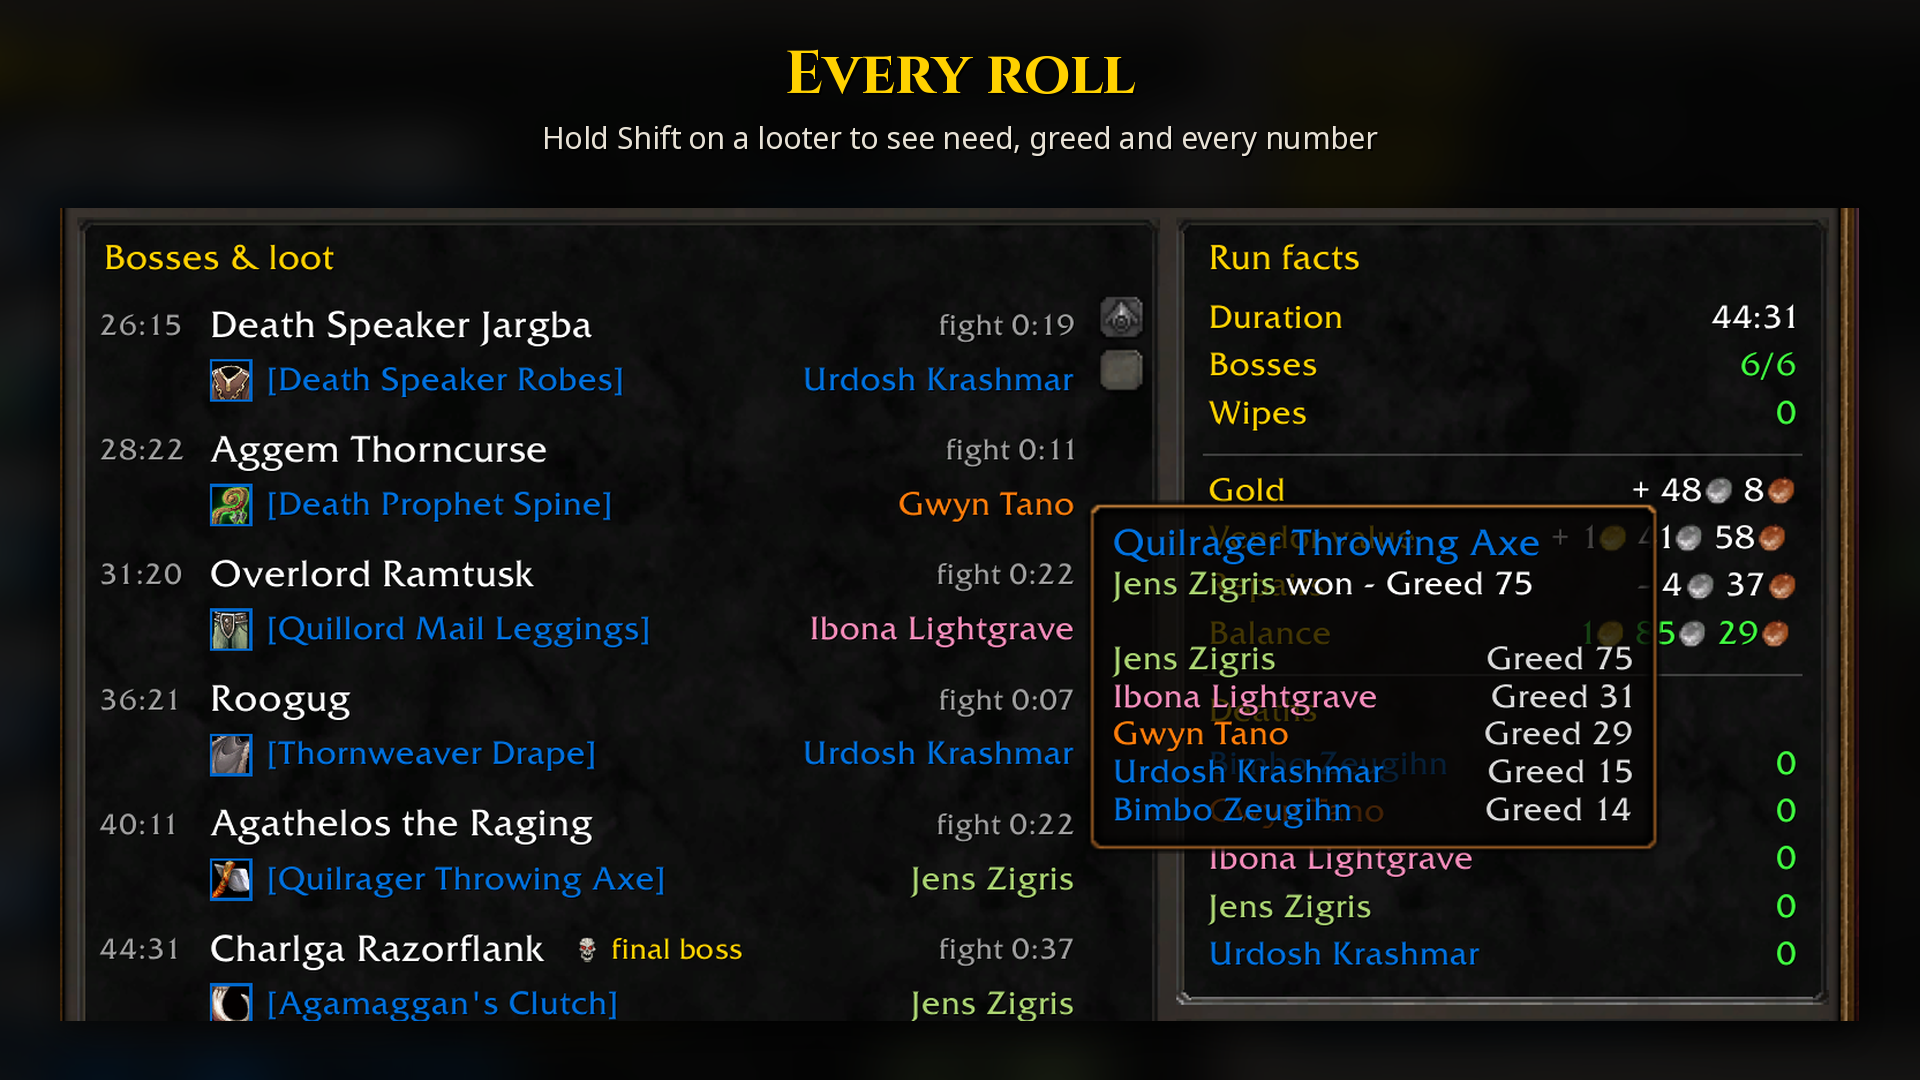
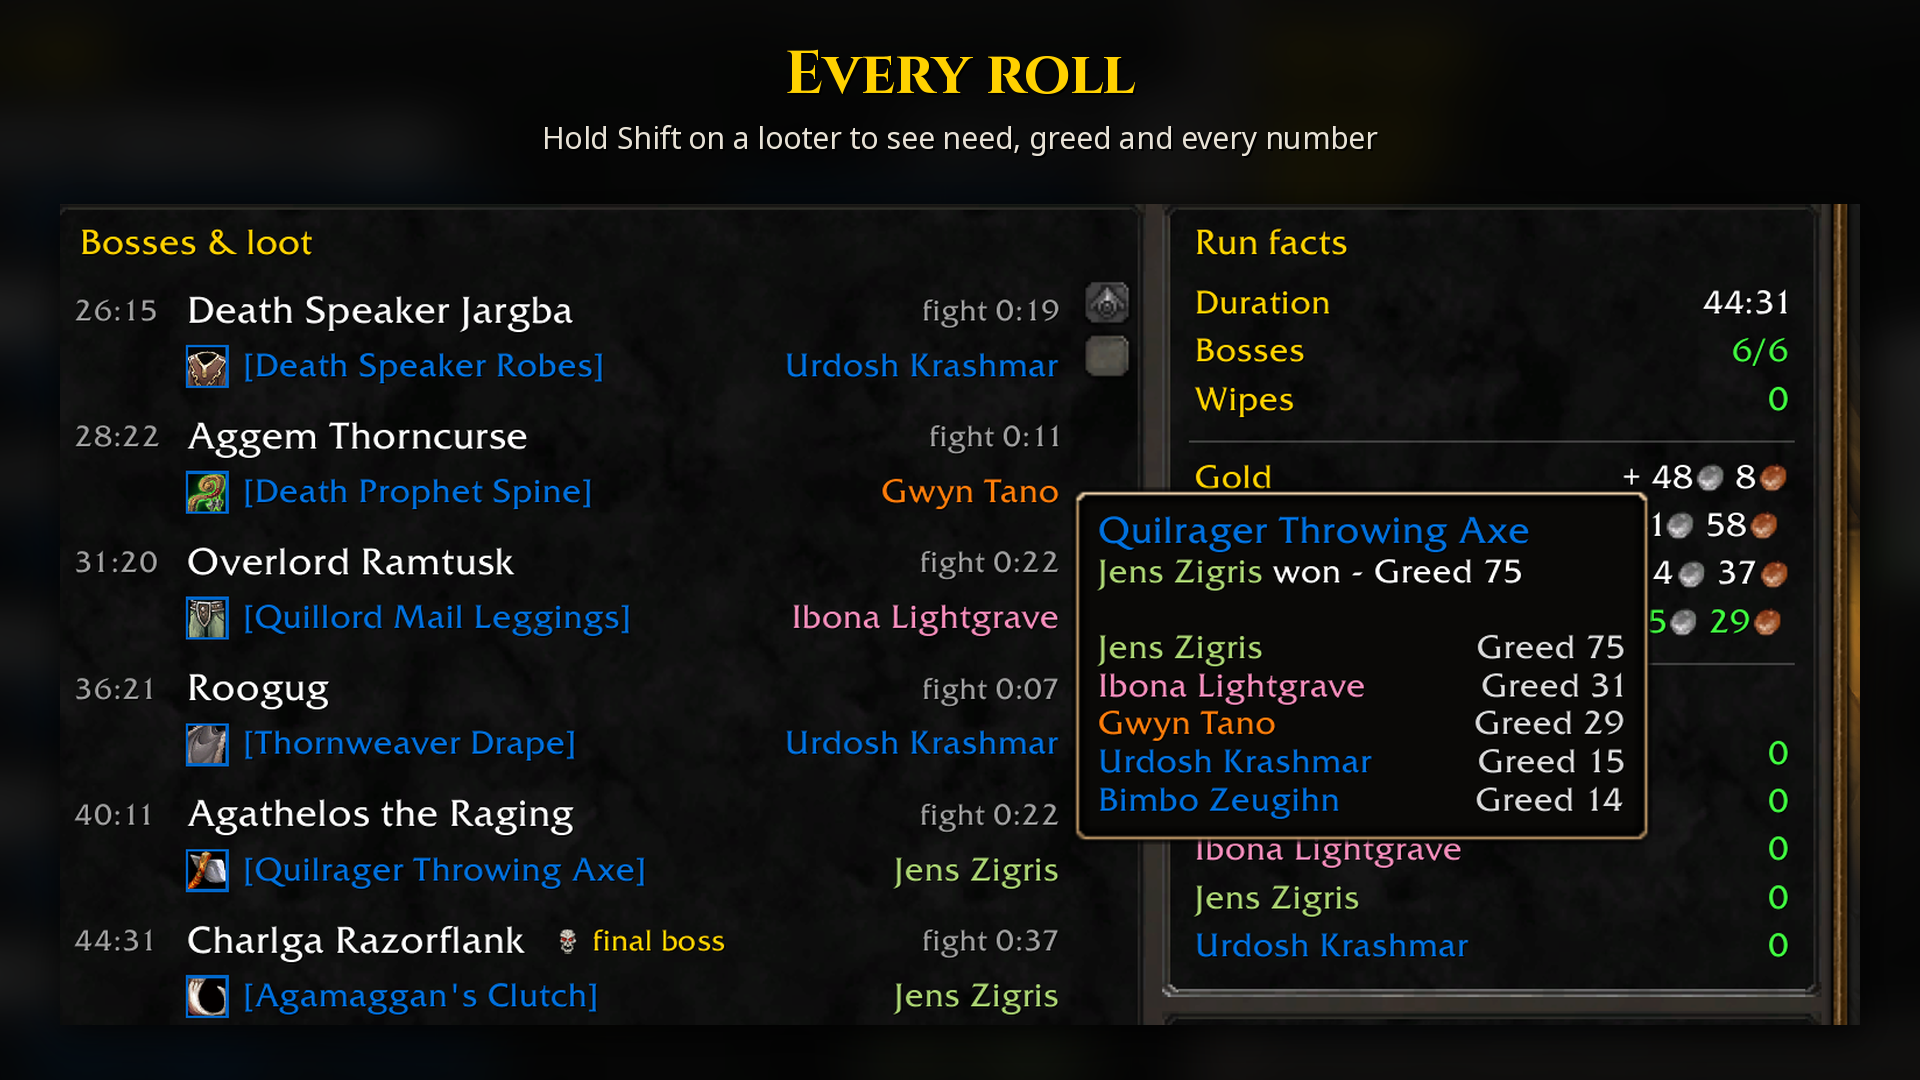
Gallery: roll and boss tooltip images with the solid tooltip
Claude-Session: https://claude.ai/code/session_01FpqjXk14Vv5TA8Ve8xhCmU

Changed region(s): [[0.0312, 0.1833, 0.9688, 0.9472], [0.4688, 0.8556, 0.5625, 0.9472]]

diff --git a/tools/make_gallery.py b/tools/make_gallery.py
@@ -57,9 +57,9 @@ slide("2-recap", "693f4d72-image.png", None, "Every boss. Every drop.",
       "Kill time, fight length and who got what – plus your gold, deaths and highlights")
 slide("3-item", "3011cc19-image.png", (60, 40, 1295, 1520), "Where did it drop?",
       "Hover an item: who looted it and which boss it came from")
-slide("4-rolls", "f491e743-image.png", (110, 250, 1670, 955), "Every roll",
+slide("4-rolls", "a3aefdff-image.png", (95, 235, 1640, 940), "Every roll",
       "Hold Shift on a looter to see need, greed and every number")
-slide("5-boss", "899450df-image.png", (140, 260, 1700, 965), "Boss details",
+slide("5-boss", "36fc2053-image.png", (55, 215, 1590, 925), "Boss details",
       "Hold Shift on a boss: kill time, fight length, wipes and deaths")
 slide("6-skin", "f34ff665-image.png", None, "Two looks",
       "Native Blizzard style or Run Recap's dark & gold")
